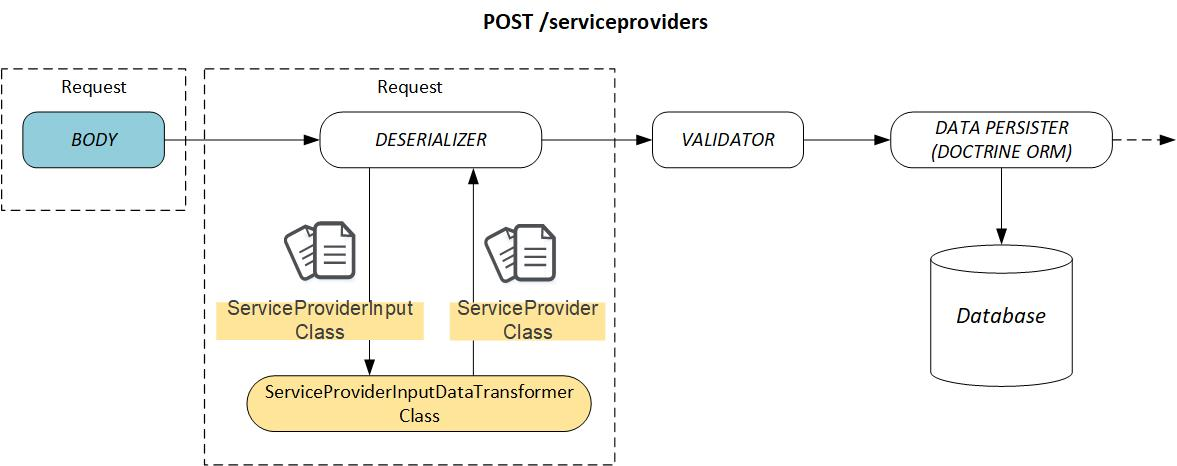
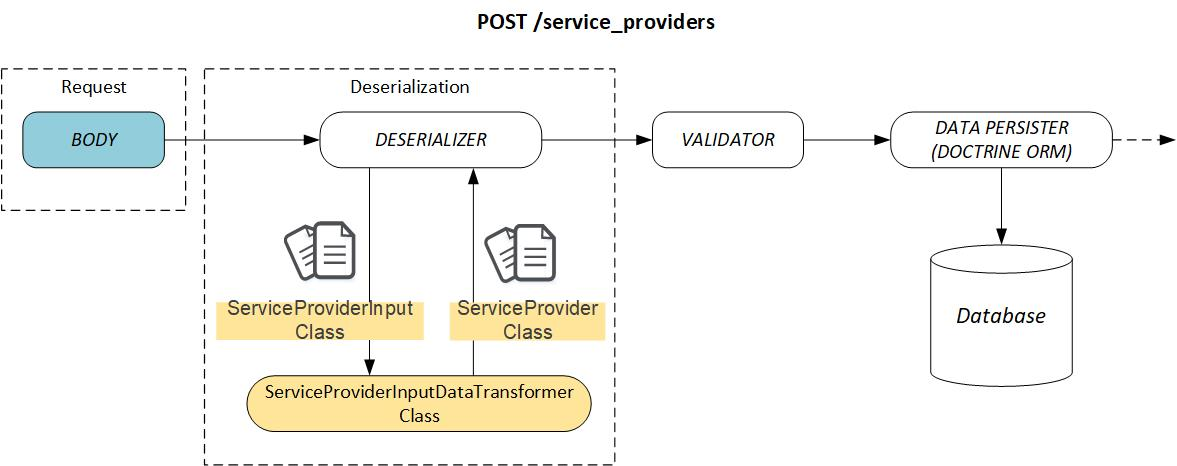
Added GET /shib documentation and diagram. Corrected wrong /POST service_providers endpoint name

Changed region(s): [[0.3976, 0.03, 0.6117, 0.0901], [0.2753, 0.1803, 0.3976, 0.2103]]

diff --git a/doc/architecture.md b/doc/architecture.md
@@ -20,8 +20,8 @@ Direct edit of IDP XML configuration files has been described in various blog. H
 
 ## API Platform integration
 ### Registering SAML2 service providers
-#### POST /servicesproviders request handling
-The `POST /serviceproviders` endpoint is the main SAML2 Service Provider registration endpoint. Input data is either :
+#### POST /services_providers request handling
+The `POST /service_providers` endpoint is the main SAML2 Service Provider registration endpoint. Input data is either :
   * A **metadata_url** representing the URL of the service provider metadata endpoint.
   * A **shibboleth_host** representing the fully qualified name (FQDN) of a Shibboleth service provider. In this case, the URL of the service provider metadata endpoint is automatically constructed by the webservice using the `https://<shibboleth_host>/Shibboleth.sso/Metadata` pattern.
 
@@ -32,4 +32,25 @@ The `ServiceProviderInput` class describes the input object. The `ServiceProvide
   * Parsing and validating the gathered XML string using the **LightSAML** SAML2 metadata parser.
   * Extracting the SAML2 Service Provider **entityId** from the parsed metadata.
 
-![SAML2 service provider registration](images/post-serviceproviders.jpg)
+
+![SAML2 service provider registration with POST request](images/post-serviceproviders.jpg)
+
+#### GET /shib?sp=<fqdn> request handling
+**DEPRECATED NOT REST COMPLINANT ENDPOINT, TO BE REMOVED AS SOON AS POSSIBLE**
+
+The `GET /shib?sp=<fqdn>` endpoint is a **legacy** SAML2 Service Provider registration endpoint for bckwrad compatibility with registration scripts not implementing HTTP POST capabilities.
+
+This endpoint **voluntarily misuses an API Platform DataProvider** to persist data in database which is mandatory to use a GET request to register a Service Provider (not compliant with REST logic).
+
+A `ServiceProviderInput` is manually created using the provided `sp=<fqdn>` GET parameter. The `ServiceProviderInputDataTransformer` class converts the `ServiceProviderInput` into a `ServiceProvider` object by :
+  * Querying the SAML2 Service Provider metadata endpoint using  **https://<sp fqdn>/Shibboleth.sso/Metadata** URL.
+  * Parsing and validating the gathered XML string using the **LightSAML** SAML2 metadata parser.
+  * Extracting the SAML2 Service Provider **entityId** from the parsed metadata.
+
+The `ServiceProvider` is then persisted in database using a Doctrine ORM `EntityManagerInterface`.
+
+![SAML2 service provider registration with a non REST compliant GET request](images/get-shib.jpg)
+
+## Reference
+  * [Using Data Transfer Objects (DTOs)](https://api-platform.com/docs/core/dto/)
+  * [Doctrine ORM EntityManager](https://www.doctrine-project.org/api/orm/latest/Doctrine/ORM/EntityManager.html)
